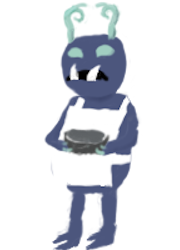
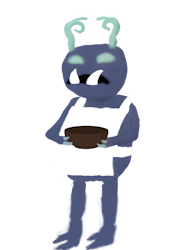
SnackmasterMercahnt visual overhaul

Changed region(s): [[0.25, 0.0, 0.7778, 0.868], [0.2778, 0.672, 0.3056, 0.7]]

diff --git a/src/main/java/spireCafe/interactables/merchants/snackmaster/SnackmasterMerchant.java b/src/main/java/spireCafe/interactables/merchants/snackmaster/SnackmasterMerchant.java
@@ -21,10 +21,10 @@ public class SnackmasterMerchant extends AbstractMerchant {
     private TopLevelSpeechEffect speechEffect;
 
     public SnackmasterMerchant(float animationX, float animationY) {
-        super(animationX, animationY, 160.0f, 200.0f);
+        super(animationX, animationY, 360.0f, 235.0f);
         this.name = snackmasterStrings.NAMES[0];
         this.authors = "Gk";
-        this.img = TexLoader.getTexture(Anniv7Mod.makeMerchantPath("snackmaster/chef.png"));
+        this.img = TexLoader.getTexture(Anniv7Mod.makeMerchantPath("snackmaster/chef_with_table.png"));
         background = new TextureRegion(TexLoader.getTexture(Anniv7Mod.makeMerchantPath("snackmaster/shopscreen.png")));
     }
 
